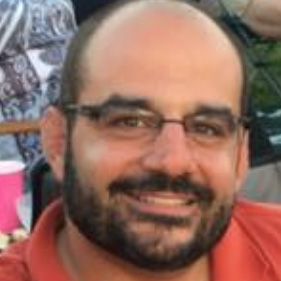
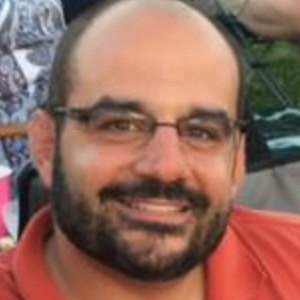
updating headshot image

diff --git a/src/pages/index.js b/src/pages/index.js
@@ -4,12 +4,6 @@ import styled from "styled-components";
 import Img from "react-image";
 import HeadShotImage from "../img/headshot-1.jpg";
 
-const H1 = styled.h1`
-  text-align: center;
-  margin-top: 25px;
-  font-weight: bold;
-`;
-
 const H3 = styled.h3`
   text-align: center;
   margin-top: 25px;
